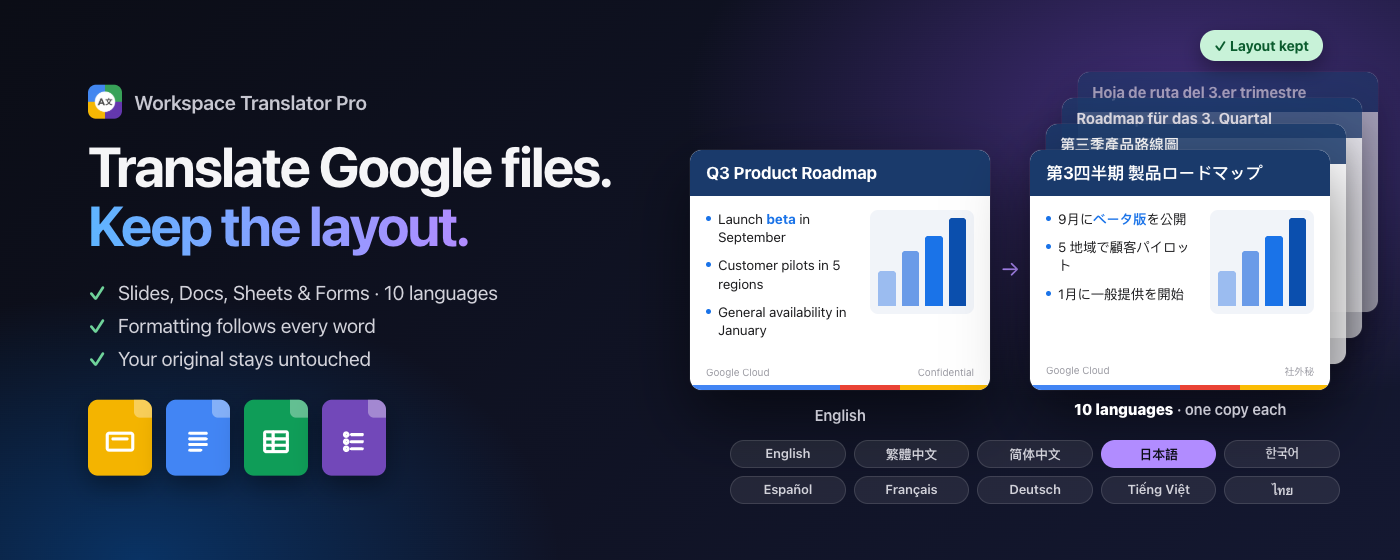
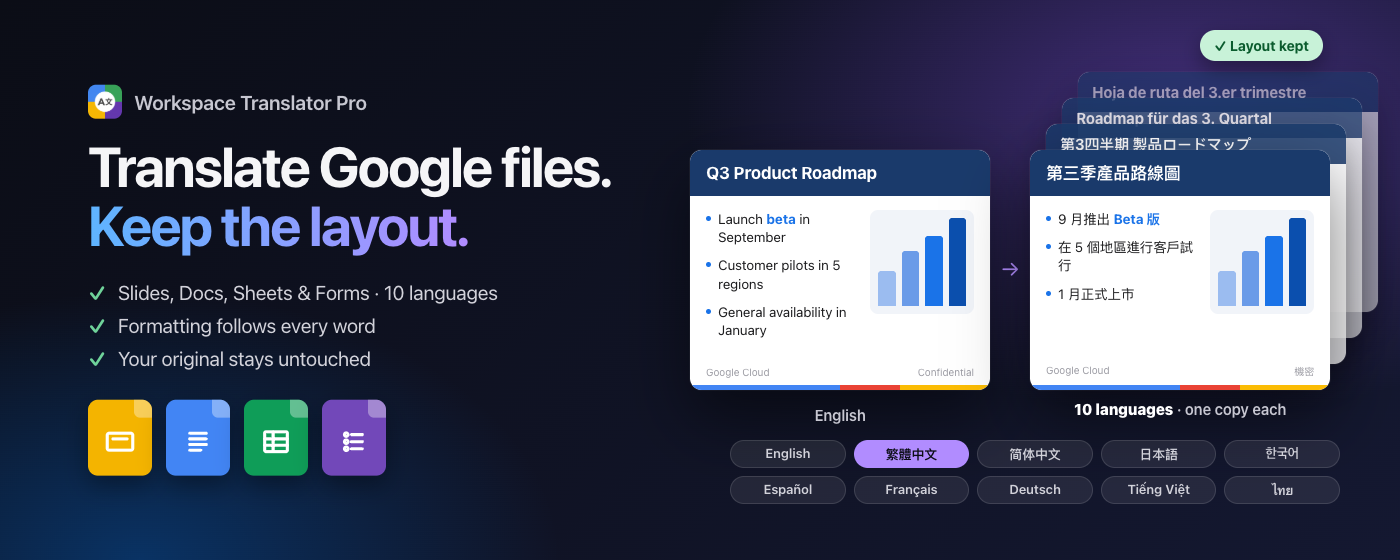
store: English marquee shows English → 繁體中文

diff --git a/store-assets/compose.html b/store-assets/compose.html
@@ -171,10 +171,10 @@ const mini = (cls, d) => `<div class="ms ${cls}"><div class="hd">${d.title}</div
   <div class="ft"><span>Google Cloud</span><span>${d.conf}</span></div><div class="strip"></div></div>`;
 const SRC = { title: 'Q3 Product Roadmap', items: ['Launch <em>beta</em> in September', 'Customer pilots in 5 regions', 'General availability in January'], conf: 'Confidential' };
 const T = {
-  en: { back: ['Hoja de ruta del 3.er trimestre', 'Roadmap für das 3. Quartal', '第三季產品路線圖'], multi: '<b>10 languages</b> · one copy each', html: 'en', h1: 'Translate Google files.', h2: 'Keep the layout.', kept: 'Layout kept',
+  en: { back: ['Hoja de ruta del 3.er trimestre', 'Roadmap für das 3. Quartal', '第3四半期 製品ロードマップ'], multi: '<b>10 languages</b> · one copy each', html: 'en', h1: 'Translate Google files.', h2: 'Keep the layout.', kept: 'Layout kept',
         pts: ['Slides, Docs, Sheets &amp; Forms · 10 languages', 'Formatting follows every word', 'Your original stays untouched'],
         types: ['Slides', 'Docs', 'Sheets', 'Forms'], tile: 'AI translation · 10 languages · layout kept',
-        slide: { name: '日本語', title: '第3四半期 製品ロードマップ', items: ['9月に<em>ベータ版</em>を公開', '5 地域で顧客パイロット', '1月に一般提供を開始'], conf: '社外秘' } },
+        slide: { name: '繁體中文', title: '第三季產品路線圖', items: ['9 月推出 <em>Beta 版</em>', '在 5 個地區進行客戶試行', '1 月正式上市'], conf: '機密' } },
   'zh-TW': { back: ['第3四半期 製品ロードマップ', 'Hoja de ruta del 3.er trimestre', 'Roadmap für das 3. Quartal'], multi: '<b>10 種語言</b> · 每種各一份副本', html: 'zh-Hant', h1: '翻譯 Google 檔案，', h2: '版面完全不跑。', kept: '版面保留',
         pts: ['簡報、文件、試算表、表單 · 10 種語言', '格式跟著每個字走', '原始檔案絕不修改'],
         types: ['簡報', '文件', '試算表', '表單'], tile: 'AI 翻譯 · 10 種語言 · 版面不跑',
